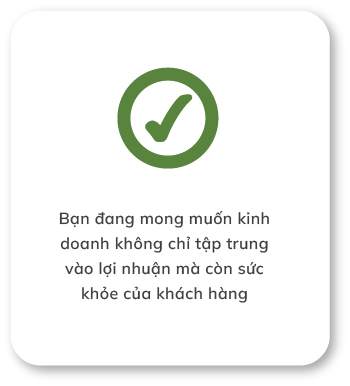
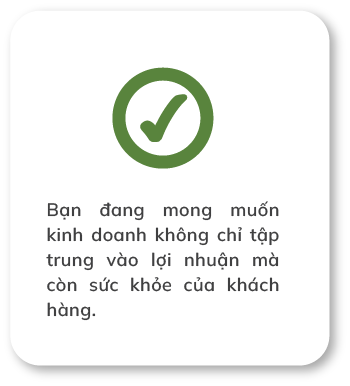
fix loi 01/10 02:03

Changed region(s): [[0.1143, 0.5285, 0.8, 0.8394], [0.3143, 0.1554, 0.6286, 0.4352]]

diff --git a/public/css/sec10.css b/public/css/sec10.css
@@ -295,11 +295,10 @@
 
     .sec10mb {
         display: block;
-        /*text-align: center;*/
-        /*justify-content: center;*/
         background-image: url("/images/sec10/Group 1270.png");
         background-size: cover;
-        background-position: center top 25px;
+        background-position: center top -100px;
+        padding-top: 1%;
     }
 
     .headersec10mb {
@@ -440,7 +439,7 @@
         border-radius: 5px;
         background-color: #59843d;
         border: 2px white solid;
-        font-family: Mitr-Regular, sans-serif;
+        font-family: Mulish-ExtraBold, sans-serif;
         color: white;
         font-size: 12px;
         width: 42vw;
@@ -449,7 +448,9 @@
         margin-top: 1%;
         filter: drop-shadow(4px 3px 3px rgba(0, 0, 0, 0.2));
     }
-
+    /*.btn-form-customer {*/
+    /*    font-family: Mitr-Regular, sans-serif;*/
+    /*}*/
     .button5mb {
         width: 45vw;
         /*margin-left: 3%;*/

diff --git a/public/css/sec2-DL.css b/public/css/sec2-DL.css
@@ -75,15 +75,11 @@
         text-align: center;
         justify-content: center;
         background-image: url("/images/dai-ly/sec2/Group 3173.png");
-        /*background-image: url("/images/dai-ly/sec2/background.png");*/
-        /*background-image: url("/images/sec10/Group 5082.png");*/
         background-size: cover;
-        /*background-position: center top 50px;*/
-        /*background-repeat: no-repeat;*/
     }
     .headerbannersec2mb-DL {
         width: 60vw;
-        margin-top: 20%;
+        /*margin-top: 20%;*/
     }
     .contentsec2mb-DL {
         width: 115%;

diff --git a/public/css/sec2.css b/public/css/sec2.css
@@ -10,8 +10,21 @@
 .headersec2 {
     margin-left: 52%;
     margin-top: 3%;
-    width: 25vw;
+    /*width: 25vw;*/
 }
+
+/*.header-test-1-mb {*/
+/*    font-size: 22px;*/
+/*    font-family: Mitr-Regular, sans-serif;*/
+/*    color: white;*/
+/*    line-height: 5px;*/
+/*    padding-top: 20px;*/
+/*}*/
+/*.header-test-2-mb {*/
+/*    font-size: 27px;*/
+/*    font-family: Mitr-SemiBold, sans-serif;*/
+/*    color: white;*/
+/*}*/
 
 .header-test-green {
     font-size: 50px;

diff --git a/public/css/sec5-NM.css b/public/css/sec5-NM.css
@@ -39,11 +39,11 @@
         margin-top: 5%;
     }
     .text1sec5-NM {
-        font-size: 40px;
+        font-size: 30px;
     }
     .text2sec5-NM {
-        font-size: 30px;
-        margin-top: -5%;
+        font-size: 22px;
+        margin-top: -6%;
     }
     .text3sec5-NM {
         width: 90vw;
@@ -51,6 +51,7 @@
         font-size: 14px;
     }
     .text4sec5-NM {
+        font-size: 16px;
         width: 90%;
         margin: auto;
         /*font-size: 18px;*/

diff --git a/public/css/sec2-NM.css b/public/css/sec2-NM.css
@@ -65,18 +65,18 @@
     }
     .header1sec2-NM {
         text-align: center;
-        font-size: 50px;
+        font-size: 30px;
     }
 
     .header2sec2-NM {
         text-align: center;
-        font-size: 25px;
+        font-size: 22px;
         margin-top: -5%;
     }
 
     .header3sec2-NM {
         text-align: center;
-        font-size: 25px;
+        font-size: 22px;
         margin-top: -5%;
     }
     .utubesec2mb-NM {

diff --git a/public/css/sec3-NM.css b/public/css/sec3-NM.css
@@ -41,15 +41,15 @@
     }
     .header1sec3-NM {
         text-align: center;
-        font-size: 40px;
+        font-size: 22px;
         margin-top: 3%;
-        margin-left: 15%;
+        /*margin-left: 15%;*/
     }
 
     .header2sec3-NM {
         text-align: center;
-        font-size: 45px;
-        margin-top: -8%;
+        font-size: 30px;
+        margin-top: -5%;
     }
 
     .header3sec3-NM {

diff --git a/public/css/sec1-NM.css b/public/css/sec1-NM.css
@@ -37,16 +37,16 @@
         justify-content: center;
     }
     .header1sec1-NM {
-        font-size: 25px;
+        font-size: 22px;
     }
 
     .header2sec1-NM {
-        font-size: 45px;
+        font-size: 30px;
         margin-top: -5%;
     }
 
     .header3sec1-NM {
-        font-size: 30px;
+        font-size: 22px;
         margin-top: -7%;
     }
     .utubesec1mb-NM {

diff --git a/public/css/sec9-NM.css b/public/css/sec9-NM.css
@@ -3,7 +3,7 @@
     background-size: cover;
     /*background-position: center top 170px;*/
     background-repeat: no-repeat;
-    padding-bottom: 3%;
+    padding-bottom: 20%;
     margin-top: 3%;
     padding-top: 3%;
 }
@@ -14,7 +14,7 @@
 }
 
 .customer-pc-NM {
-    transform: translateX(130%);
+    transform: translateX(130%) translateY(40%);
 }
 
 .form-customer-NM {

diff --git a/public/css/sec4-NM.css b/public/css/sec4-NM.css
@@ -130,11 +130,11 @@
         padding-bottom: 5%;
     }
     .header1sec4-NM {
-        font-size: 30px;
+        font-size: 27px;
     }
 
     .header2sec4-NM {
-        font-size: 30px;
+        font-size: 22px;
         margin-top: -5%;
     }
     .textsec4-NM {

diff --git a/public/css/sec3.css b/public/css/sec3.css
@@ -36,6 +36,10 @@
     width: 22vw;
 }
 
+.nga-min-link {
+    text-decoration: none;
+}
+
 .button1 {
     margin-left: 31%;
     margin-top: 2%;
@@ -153,6 +157,7 @@
     }
 
     .headersec4mb {
+        margin-top: 3%;
         width: 50vw;
     }
 

diff --git a/public/css/sec6-NM.css b/public/css/sec6-NM.css
@@ -34,11 +34,11 @@
         padding-top: 5%;
     }
     .header1sec6-NM {
-        font-size: 30px;
+        font-size: 22px;
     }
 
     .header2sec6-NM {
-        font-size: 40px;
+        font-size: 30px;
         margin-top: -5%;
     }
 }

diff --git a/public/css/footer.css b/public/css/footer.css
@@ -90,7 +90,7 @@
         background-image: url("/images/footer/Group 1269.png");
     }
     .logofootermb {
-        width: 60vw;
+        width: 45vw;
         margin-left: 5%;
     }
     .linkcontactmb {
